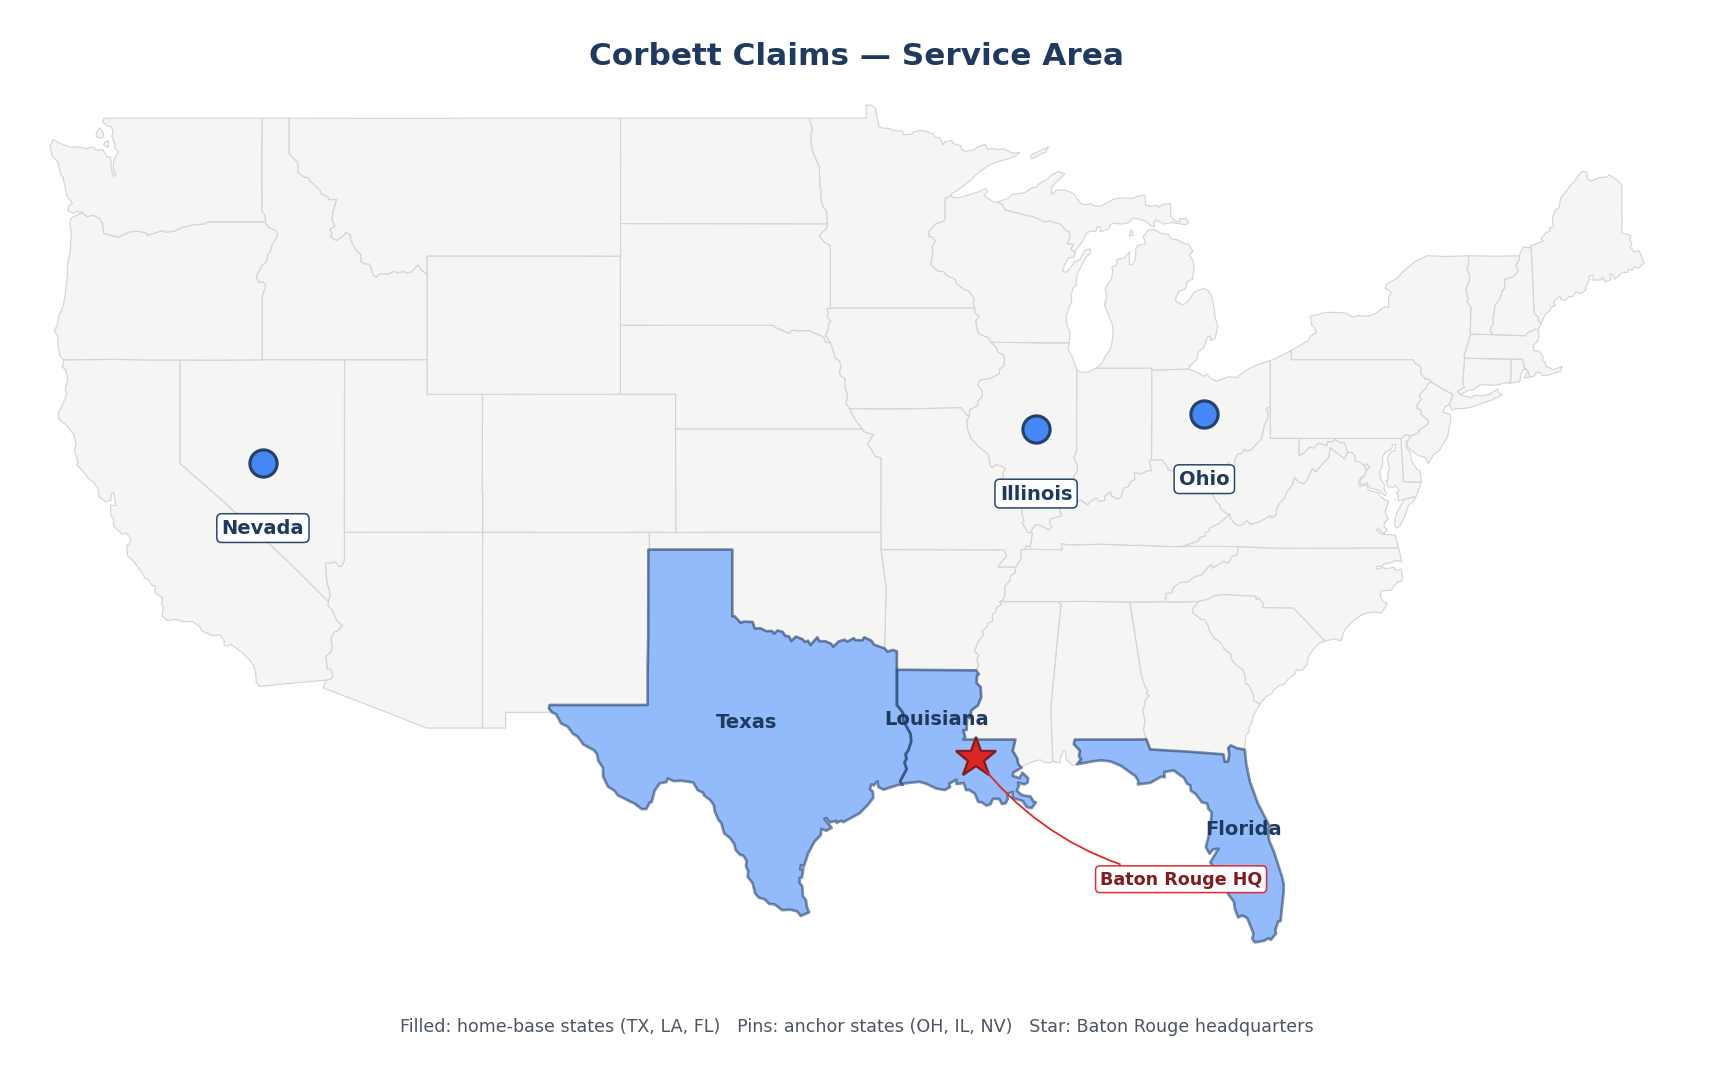
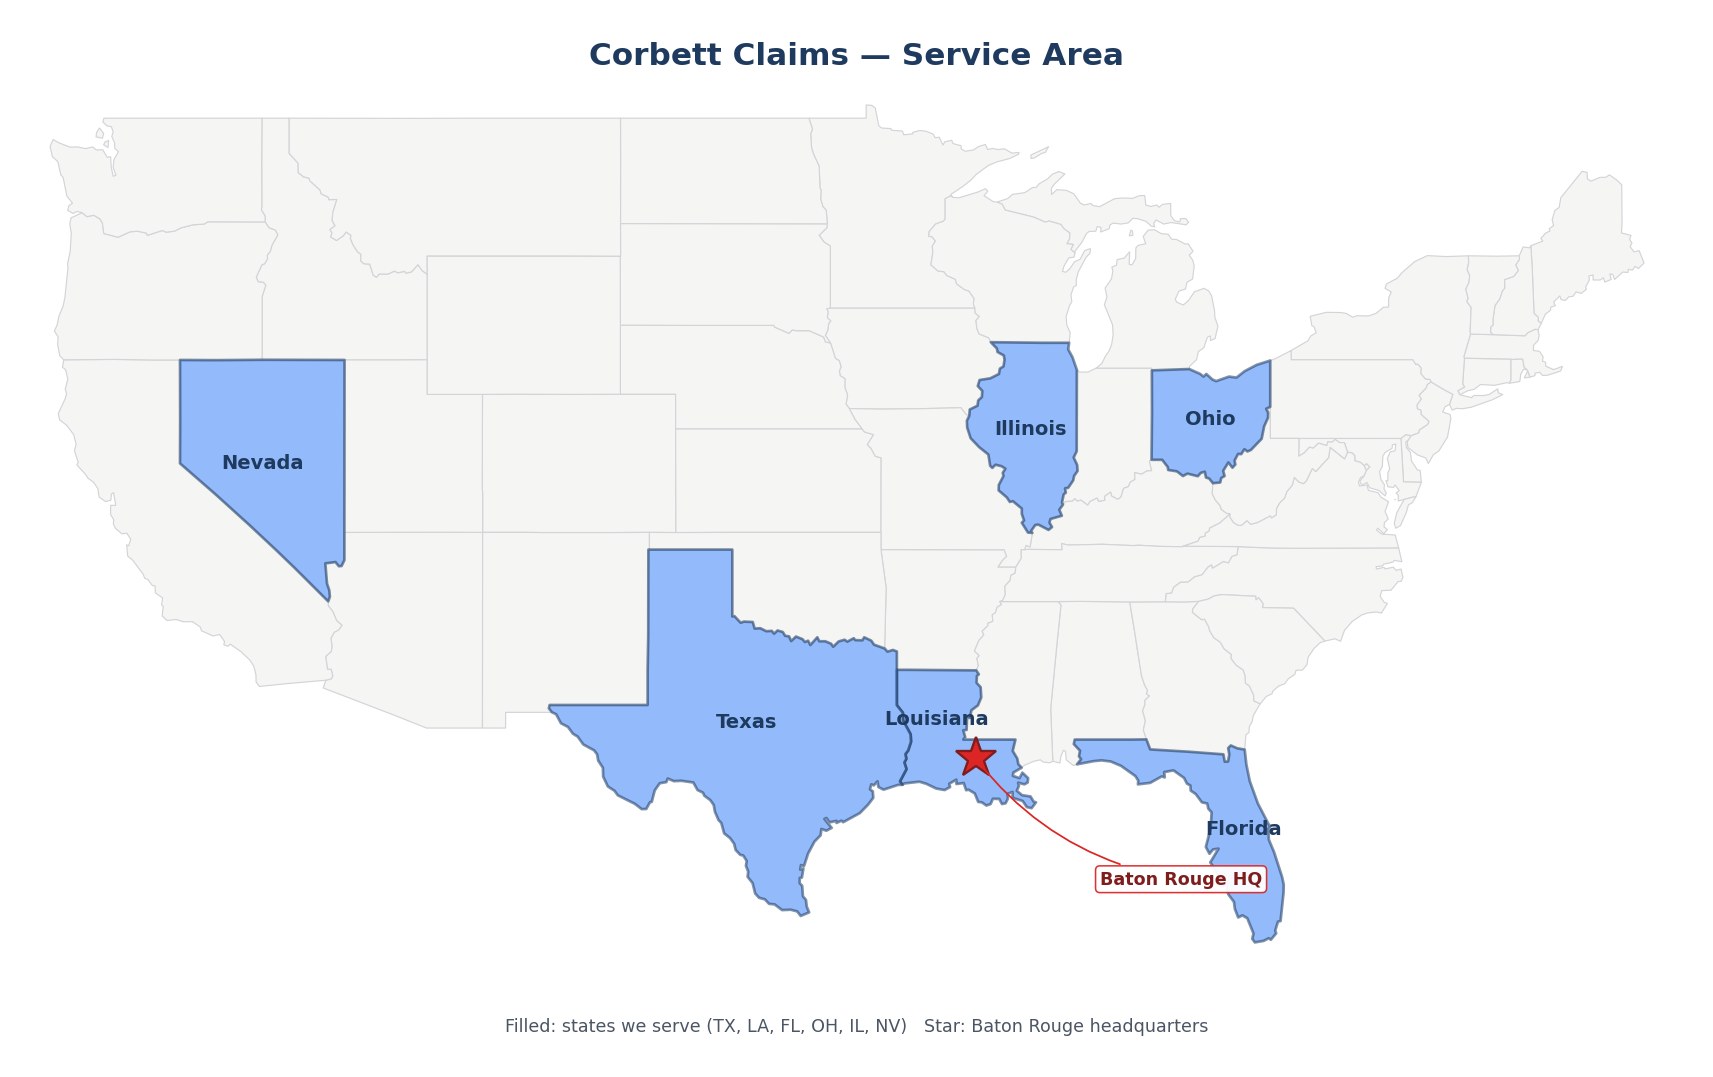
Fill OH/IL/NV polygons on service-area map instead of dot markers
All six anchor states (TX, LA, FL, OH, IL, NV) now render as filled
polygons in both the interactive Leaflet map and the noscript PNG
fallback, giving them equal visual weight. Drops the circle-marker
code path and simplifies the bounds calculation.

Changed region(s): [[0.5569, 0.3064, 0.7426, 0.4903], [0.0928, 0.3064, 0.2166, 0.5515], [0.2475, 0.9499, 0.7735, 0.9805]]

diff --git a/index.html b/index.html
@@ -498,8 +498,8 @@
                 attribution: '&copy; OpenStreetMap contributors'
             }).addTo(map);
 
-            // Real outlines for TX, LA, FL (simplified to ~3-decimal precision)
-            const serviceStates = {"type":"FeatureCollection","features":[{"type":"Feature","id":"12","properties":{"name":"Florida"},"geometry":{"type":"Polygon","coordinates":[[[-85.497,30.998],[-85.004,31.003],[-84.867,30.713],[-83.498,30.647],[-82.216,30.57],[-82.167,30.357],[-82.047,30.362],[-82.003,30.565],[-82.041,30.751],[-81.948,30.828],[-81.718,30.746],[-81.444,30.707],[-81.384,30.275],[-81.258,29.787],[-80.968,29.146],[-80.524,28.462],[-80.59,28.412],[-80.568,28.095],[-80.382,27.739],[-80.091,27.021],[-80.031,26.797],[-80.037,26.567],[-80.146,25.74],[-80.239,25.723],[-80.338,25.466],[-80.305,25.384],[-80.497,25.197],[-80.573,25.241],[-80.76,25.165],[-81.077,25.121],[-81.17,25.225],[-81.127,25.378],[-81.351,25.822],[-81.526,25.904],[-81.68,25.844],[-81.8,26.09],[-81.833,26.293],[-82.041,26.517],[-82.09,26.665],[-82.058,26.879],[-82.173,26.917],[-82.145,26.791],[-82.249,26.758],[-82.567,27.301],[-82.693,27.438],[-82.392,27.837],[-82.589,27.815],[-82.72,27.689],[-82.852,27.887],[-82.677,28.434],[-82.644,28.889],[-82.764,28.998],[-82.802,29.146],[-82.994,29.179],[-83.219,29.42],[-83.399,29.519],[-83.41,29.667],[-83.536,29.721],[-83.64,29.886],[-84.024,30.105],[-84.358,30.056],[-84.342,29.902],[-84.451,29.93],[-84.867,29.743],[-85.311,29.7],[-85.3,29.809],[-85.404,29.94],[-85.924,30.236],[-86.297,30.362],[-86.631,30.395],[-86.91,30.373],[-87.518,30.28],[-87.37,30.428],[-87.447,30.51],[-87.409,30.674],[-87.633,30.866],[-87.6,30.998],[-85.497,30.998]]]}},{"type":"Feature","id":"22","properties":{"name":"Louisiana"},"geometry":{"type":"Polygon","coordinates":[[[-93.608,33.019],[-91.166,33.002],[-91.073,32.887],[-91.144,32.843],[-91.155,32.641],[-91.007,32.515],[-90.985,32.219],[-91.106,31.989],[-91.341,31.846],[-91.401,31.622],[-91.5,31.644],[-91.516,31.277],[-91.637,31.266],[-91.566,31.069],[-91.637,30.998],[-89.747,30.998],[-89.846,30.669],[-89.682,30.45],[-89.643,30.286],[-89.523,30.181],[-89.818,30.045],[-89.84,29.946],[-89.599,29.88],[-89.495,30.039],[-89.287,29.88],[-89.304,29.754],[-89.424,29.7],[-89.649,29.749],[-89.621,29.656],[-89.698,29.513],[-89.506,29.387],[-89.2,29.349],[-89.09,29.201],[-89.002,29.179],[-89.161,29.009],[-89.336,29.042],[-89.484,29.218],[-89.851,29.311],[-89.851,29.48],[-90.032,29.426],[-90.021,29.283],[-90.103,29.152],[-90.235,29.13],[-90.333,29.278],[-90.563,29.283],[-90.645,29.13],[-90.799,29.086],[-90.963,29.179],[-91.095,29.19],[-91.221,29.437],[-91.445,29.546],[-91.533,29.53],[-91.62,29.738],[-91.883,29.71],[-91.889,29.836],[-92.146,29.716],[-92.113,29.623],[-92.31,29.535],[-92.617,29.579],[-92.973,29.716],[-93.225,29.776],[-93.767,29.727],[-93.839,29.689],[-93.926,29.787],[-93.691,30.143],[-93.767,30.335],[-93.696,30.439],[-93.729,30.576],[-93.63,30.68],[-93.526,30.937],[-93.543,31.151],[-93.817,31.556],[-93.822,31.775],[-94.041,31.994],[-94.041,33.019],[-93.608,33.019]]]}},{"type":"Feature","id":"48","properties":{"name":"Texas"},"geometry":{"type":"Polygon","coordinates":[[[-101.813,36.502],[-100.0,36.502],[-100.0,34.563],[-99.923,34.574],[-99.699,34.382],[-99.578,34.415],[-99.261,34.404],[-99.189,34.212],[-98.987,34.223],[-98.768,34.136],[-98.571,34.147],[-98.488,34.065],[-98.362,34.158],[-98.171,34.114],[-98.089,34.004],[-97.946,33.988],[-97.87,33.851],[-97.694,33.982],[-97.459,33.906],[-97.371,33.824],[-97.256,33.862],[-97.174,33.736],[-96.922,33.961],[-96.851,33.846],[-96.632,33.846],[-96.424,33.774],[-96.347,33.687],[-96.15,33.84],[-95.936,33.889],[-95.838,33.835],[-95.602,33.933],[-95.547,33.878],[-95.29,33.873],[-95.224,33.961],[-94.967,33.862],[-94.868,33.747],[-94.485,33.637],[-94.381,33.544],[-94.184,33.594],[-94.041,33.55],[-94.041,33.019],[-94.041,31.994],[-93.822,31.775],[-93.817,31.556],[-93.543,31.151],[-93.526,30.937],[-93.63,30.68],[-93.729,30.576],[-93.696,30.439],[-93.767,30.335],[-93.691,30.143],[-93.926,29.787],[-93.839,29.689],[-94.003,29.683],[-94.523,29.546],[-94.709,29.623],[-94.742,29.787],[-94.874,29.672],[-94.967,29.7],[-95.016,29.557],[-94.912,29.497],[-94.896,29.311],[-95.082,29.113],[-95.383,28.867],[-95.985,28.604],[-96.046,28.648],[-96.226,28.582],[-96.232,28.642],[-96.478,28.599],[-96.593,28.725],[-96.665,28.697],[-96.402,28.44],[-96.593,28.358],[-96.774,28.407],[-96.802,28.226],[-97.026,28.04],[-97.256,27.695],[-97.404,27.333],[-97.514,27.361],[-97.541,27.229],[-97.426,27.262],[-97.481,26.999],[-97.557,26.988],[-97.563,26.841],[-97.47,26.758],[-97.442,26.457],[-97.333,26.353],[-97.305,26.161],[-97.218,25.992],[-97.524,25.888],[-97.65,26.019],[-97.886,26.068],[-98.198,26.057],[-98.467,26.222],[-98.669,26.238],[-98.823,26.37],[-99.031,26.413],[-99.173,26.539],[-99.266,26.841],[-99.447,27.021],[-99.425,27.175],[-99.507,27.339],[-99.48,27.481],[-99.606,27.64],[-99.71,27.657],[-99.88,27.799],[-99.934,27.98],[-100.082,28.144],[-100.296,28.281],[-100.4,28.582],[-100.498,28.664],[-100.63,28.905],[-100.674,29.103],[-100.8,29.245],[-101.013,29.371],[-101.063,29.459],[-101.26,29.535],[-101.413,29.754],[-101.851,29.804],[-102.114,29.793],[-102.339,29.869],[-102.388,29.765],[-102.629,29.732],[-102.81,29.524],[-102.919,29.19],[-102.98,29.185],[-103.116,28.987],[-103.281,28.982],[-103.527,29.135],[-104.146,29.382],[-104.267,29.513],[-104.508,29.639],[-104.677,29.924],[-104.688,30.181],[-104.858,30.39],[-104.896,30.57],[-105.006,30.685],[-105.395,30.855],[-105.603,31.085],[-105.773,31.167],[-105.954,31.364],[-106.205,31.469],[-106.381,31.731],[-106.529,31.786],[-106.644,31.901],[-106.616,32.0],[-103.067,32.0],[-103.067,33.002],[-103.045,34.015],[-103.04,36.502],[-103.001,36.502],[-101.813,36.502]]]}}]};
+            // Real outlines for TX, LA, FL, OH, IL, NV (simplified to ~3-decimal precision)
+            const serviceStates = {"type":"FeatureCollection","features":[{"type":"Feature","id":"12","properties":{"name":"Florida"},"geometry":{"type":"Polygon","coordinates":[[[-85.497,30.998],[-85.004,31.003],[-84.867,30.713],[-83.498,30.647],[-82.216,30.57],[-82.167,30.357],[-82.047,30.362],[-82.003,30.565],[-82.041,30.751],[-81.948,30.828],[-81.718,30.746],[-81.444,30.707],[-81.384,30.275],[-81.258,29.787],[-80.968,29.146],[-80.524,28.462],[-80.59,28.412],[-80.568,28.095],[-80.382,27.739],[-80.091,27.021],[-80.031,26.797],[-80.037,26.567],[-80.146,25.74],[-80.239,25.723],[-80.338,25.466],[-80.305,25.384],[-80.497,25.197],[-80.573,25.241],[-80.76,25.165],[-81.077,25.121],[-81.17,25.225],[-81.127,25.378],[-81.351,25.822],[-81.526,25.904],[-81.68,25.844],[-81.8,26.09],[-81.833,26.293],[-82.041,26.517],[-82.09,26.665],[-82.058,26.879],[-82.173,26.917],[-82.145,26.791],[-82.249,26.758],[-82.567,27.301],[-82.693,27.438],[-82.392,27.837],[-82.589,27.815],[-82.72,27.689],[-82.852,27.887],[-82.677,28.434],[-82.644,28.889],[-82.764,28.998],[-82.802,29.146],[-82.994,29.179],[-83.219,29.42],[-83.399,29.519],[-83.41,29.667],[-83.536,29.721],[-83.64,29.886],[-84.024,30.105],[-84.358,30.056],[-84.342,29.902],[-84.451,29.93],[-84.867,29.743],[-85.311,29.7],[-85.3,29.809],[-85.404,29.94],[-85.924,30.236],[-86.297,30.362],[-86.631,30.395],[-86.91,30.373],[-87.518,30.28],[-87.37,30.428],[-87.447,30.51],[-87.409,30.674],[-87.633,30.866],[-87.6,30.998],[-85.497,30.998]]]}},{"type":"Feature","id":"22","properties":{"name":"Louisiana"},"geometry":{"type":"Polygon","coordinates":[[[-93.608,33.019],[-91.166,33.002],[-91.073,32.887],[-91.144,32.843],[-91.155,32.641],[-91.007,32.515],[-90.985,32.219],[-91.106,31.989],[-91.341,31.846],[-91.401,31.622],[-91.5,31.644],[-91.516,31.277],[-91.637,31.266],[-91.566,31.069],[-91.637,30.998],[-89.747,30.998],[-89.846,30.669],[-89.682,30.45],[-89.643,30.286],[-89.523,30.181],[-89.818,30.045],[-89.84,29.946],[-89.599,29.88],[-89.495,30.039],[-89.287,29.88],[-89.304,29.754],[-89.424,29.7],[-89.649,29.749],[-89.621,29.656],[-89.698,29.513],[-89.506,29.387],[-89.2,29.349],[-89.09,29.201],[-89.002,29.179],[-89.161,29.009],[-89.336,29.042],[-89.484,29.218],[-89.851,29.311],[-89.851,29.48],[-90.032,29.426],[-90.021,29.283],[-90.103,29.152],[-90.235,29.13],[-90.333,29.278],[-90.563,29.283],[-90.645,29.13],[-90.799,29.086],[-90.963,29.179],[-91.095,29.19],[-91.221,29.437],[-91.445,29.546],[-91.533,29.53],[-91.62,29.738],[-91.883,29.71],[-91.889,29.836],[-92.146,29.716],[-92.113,29.623],[-92.31,29.535],[-92.617,29.579],[-92.973,29.716],[-93.225,29.776],[-93.767,29.727],[-93.839,29.689],[-93.926,29.787],[-93.691,30.143],[-93.767,30.335],[-93.696,30.439],[-93.729,30.576],[-93.63,30.68],[-93.526,30.937],[-93.543,31.151],[-93.817,31.556],[-93.822,31.775],[-94.041,31.994],[-94.041,33.019],[-93.608,33.019]]]}},{"type":"Feature","id":"48","properties":{"name":"Texas"},"geometry":{"type":"Polygon","coordinates":[[[-101.813,36.502],[-100.0,36.502],[-100.0,34.563],[-99.923,34.574],[-99.699,34.382],[-99.578,34.415],[-99.261,34.404],[-99.189,34.212],[-98.987,34.223],[-98.768,34.136],[-98.571,34.147],[-98.488,34.065],[-98.362,34.158],[-98.171,34.114],[-98.089,34.004],[-97.946,33.988],[-97.87,33.851],[-97.694,33.982],[-97.459,33.906],[-97.371,33.824],[-97.256,33.862],[-97.174,33.736],[-96.922,33.961],[-96.851,33.846],[-96.632,33.846],[-96.424,33.774],[-96.347,33.687],[-96.15,33.84],[-95.936,33.889],[-95.838,33.835],[-95.602,33.933],[-95.547,33.878],[-95.29,33.873],[-95.224,33.961],[-94.967,33.862],[-94.868,33.747],[-94.485,33.637],[-94.381,33.544],[-94.184,33.594],[-94.041,33.55],[-94.041,33.019],[-94.041,31.994],[-93.822,31.775],[-93.817,31.556],[-93.543,31.151],[-93.526,30.937],[-93.63,30.68],[-93.729,30.576],[-93.696,30.439],[-93.767,30.335],[-93.691,30.143],[-93.926,29.787],[-93.839,29.689],[-94.003,29.683],[-94.523,29.546],[-94.709,29.623],[-94.742,29.787],[-94.874,29.672],[-94.967,29.7],[-95.016,29.557],[-94.912,29.497],[-94.896,29.311],[-95.082,29.113],[-95.383,28.867],[-95.985,28.604],[-96.046,28.648],[-96.226,28.582],[-96.232,28.642],[-96.478,28.599],[-96.593,28.725],[-96.665,28.697],[-96.402,28.44],[-96.593,28.358],[-96.774,28.407],[-96.802,28.226],[-97.026,28.04],[-97.256,27.695],[-97.404,27.333],[-97.514,27.361],[-97.541,27.229],[-97.426,27.262],[-97.481,26.999],[-97.557,26.988],[-97.563,26.841],[-97.47,26.758],[-97.442,26.457],[-97.333,26.353],[-97.305,26.161],[-97.218,25.992],[-97.524,25.888],[-97.65,26.019],[-97.886,26.068],[-98.198,26.057],[-98.467,26.222],[-98.669,26.238],[-98.823,26.37],[-99.031,26.413],[-99.173,26.539],[-99.266,26.841],[-99.447,27.021],[-99.425,27.175],[-99.507,27.339],[-99.48,27.481],[-99.606,27.64],[-99.71,27.657],[-99.88,27.799],[-99.934,27.98],[-100.082,28.144],[-100.296,28.281],[-100.4,28.582],[-100.498,28.664],[-100.63,28.905],[-100.674,29.103],[-100.8,29.245],[-101.013,29.371],[-101.063,29.459],[-101.26,29.535],[-101.413,29.754],[-101.851,29.804],[-102.114,29.793],[-102.339,29.869],[-102.388,29.765],[-102.629,29.732],[-102.81,29.524],[-102.919,29.19],[-102.98,29.185],[-103.116,28.987],[-103.281,28.982],[-103.527,29.135],[-104.146,29.382],[-104.267,29.513],[-104.508,29.639],[-104.677,29.924],[-104.688,30.181],[-104.858,30.39],[-104.896,30.57],[-105.006,30.685],[-105.395,30.855],[-105.603,31.085],[-105.773,31.167],[-105.954,31.364],[-106.205,31.469],[-106.381,31.731],[-106.529,31.786],[-106.644,31.901],[-106.616,32.0],[-103.067,32.0],[-103.067,33.002],[-103.045,34.015],[-103.04,36.502],[-103.001,36.502],[-101.813,36.502]]]}},{"type":"Feature","id":"39","properties":{"name":"Ohio"},"geometry":{"type":"Polygon","coordinates":[[[-80.519,41.979],[-80.519,40.637],[-80.666,40.582],[-80.595,40.473],[-80.601,40.319],[-80.738,40.078],[-80.831,39.711],[-81.22,39.388],[-81.346,39.344],[-81.455,39.41],[-81.57,39.268],[-81.685,39.273],[-81.811,39.081],[-81.784,38.966],[-81.888,38.873],[-82.036,39.027],[-82.222,38.786],[-82.173,38.632],[-82.293,38.578],[-82.331,38.446],[-82.594,38.424],[-82.731,38.561],[-82.846,38.589],[-82.89,38.758],[-83.033,38.725],[-83.142,38.627],[-83.52,38.704],[-83.679,38.632],[-83.903,38.769],[-84.216,38.808],[-84.232,38.895],[-84.435,39.103],[-84.818,39.103],[-84.802,40.5],[-84.807,41.694],[-83.454,41.732],[-83.065,41.595],[-82.934,41.513],[-82.835,41.59],[-82.616,41.431],[-82.479,41.382],[-82.014,41.513],[-81.74,41.486],[-81.444,41.672],[-81.012,41.853],[-80.519,41.979]]]}},{"type":"Feature","id":"17","properties":{"name":"Illinois"},"geometry":{"type":"Polygon","coordinates":[[[-90.64,42.51],[-88.789,42.494],[-87.803,42.494],[-87.836,42.302],[-87.682,42.077],[-87.524,41.71],[-87.529,39.35],[-87.639,39.169],[-87.513,38.956],[-87.496,38.78],[-87.622,38.638],[-87.655,38.506],[-87.836,38.293],[-87.951,38.276],[-87.923,38.15],[-88.0,38.101],[-88.06,37.866],[-88.027,37.8],[-88.159,37.657],[-88.066,37.482],[-88.477,37.389],[-88.515,37.285],[-88.422,37.154],[-88.548,37.071],[-88.915,37.225],[-89.03,37.214],[-89.183,37.039],[-89.134,36.984],[-89.293,36.995],[-89.517,37.28],[-89.435,37.345],[-89.517,37.537],[-89.517,37.69],[-89.84,37.904],[-89.95,37.882],[-90.059,38.013],[-90.355,38.216],[-90.35,38.375],[-90.18,38.632],[-90.207,38.725],[-90.109,38.846],[-90.251,38.917],[-90.47,38.961],[-90.585,38.868],[-90.662,38.928],[-90.728,39.257],[-91.062,39.47],[-91.368,39.728],[-91.494,40.034],[-91.505,40.237],[-91.418,40.38],[-91.401,40.56],[-91.122,40.67],[-91.095,40.823],[-90.963,40.922],[-90.947,41.097],[-91.111,41.239],[-91.045,41.415],[-90.656,41.464],[-90.344,41.59],[-90.311,41.743],[-90.18,41.809],[-90.142,42.001],[-90.169,42.127],[-90.394,42.225],[-90.421,42.329],[-90.64,42.51]]]}},{"type":"Feature","id":"32","properties":{"name":"Nevada"},"geometry":{"type":"Polygon","coordinates":[[[-117.028,42.001],[-114.043,41.995],[-114.048,37.0],[-114.048,36.195],[-114.152,36.025],[-114.251,36.02],[-114.372,36.14],[-114.739,36.102],[-114.678,35.516],[-114.596,35.324],[-114.574,35.138],[-114.634,35.001],[-115.85,35.971],[-116.54,36.502],[-117.499,37.219],[-118.715,38.101],[-120.002,38.999],[-119.996,40.265],[-120.002,41.995],[-118.698,41.99],[-117.028,42.001]]]}}]};
 
             const styleBase = {
                 color: '#1e3a5f',
@@ -529,37 +529,10 @@
                 }
             }).addTo(map);
 
-            // Distant anchor states: shown as labeled circle markers since we travel rather than blanket-cover.
-            const anchorStates = [
-                { name: 'Ohio',     lat: 40.4173, lng: -82.9071 },
-                { name: 'Illinois', lat: 40.0,    lng: -89.0 },
-                { name: 'Nevada',   lat: 39.0,    lng: -117.0 }
-            ];
-
-            const anchorLayer = L.featureGroup();
-            anchorStates.forEach(s => {
-                const m = L.circleMarker([s.lat, s.lng], {
-                    radius: 10,
-                    color: '#1e3a5f',
-                    weight: 2,
-                    fillColor: '#3b82f6',
-                    fillOpacity: 0.55
-                }).bindPopup(
-                    "<strong>" + s.name + "</strong><br>" +
-                    "Assignments accepted in this state.<br>" +
-                    "Call [phone redacted] to request an appraisal."
-                ).bindTooltip(s.name, { permanent: true, direction: 'top', offset: [0, -10], className: 'state-tooltip' });
-                anchorLayer.addLayer(m);
-            });
-            anchorLayer.addTo(map);
-
             const hqMarker = L.marker([30.4515, -91.1871]).addTo(map)
                 .bindPopup("<strong>Baton Rouge Headquarters</strong><br>Corbett Claims<br>Independent auto &amp; heavy equipment appraisals");
 
-            const allBounds = serviceLayer.getBounds()
-                .extend(anchorLayer.getBounds())
-                .extend(hqMarker.getLatLng());
-            map.fitBounds(allBounds, { padding: [30, 30] });
+            map.fitBounds(serviceLayer.getBounds().extend(hqMarker.getLatLng()), { padding: [30, 30] });
         }
 
         window.addEventListener('load', initServiceMap);